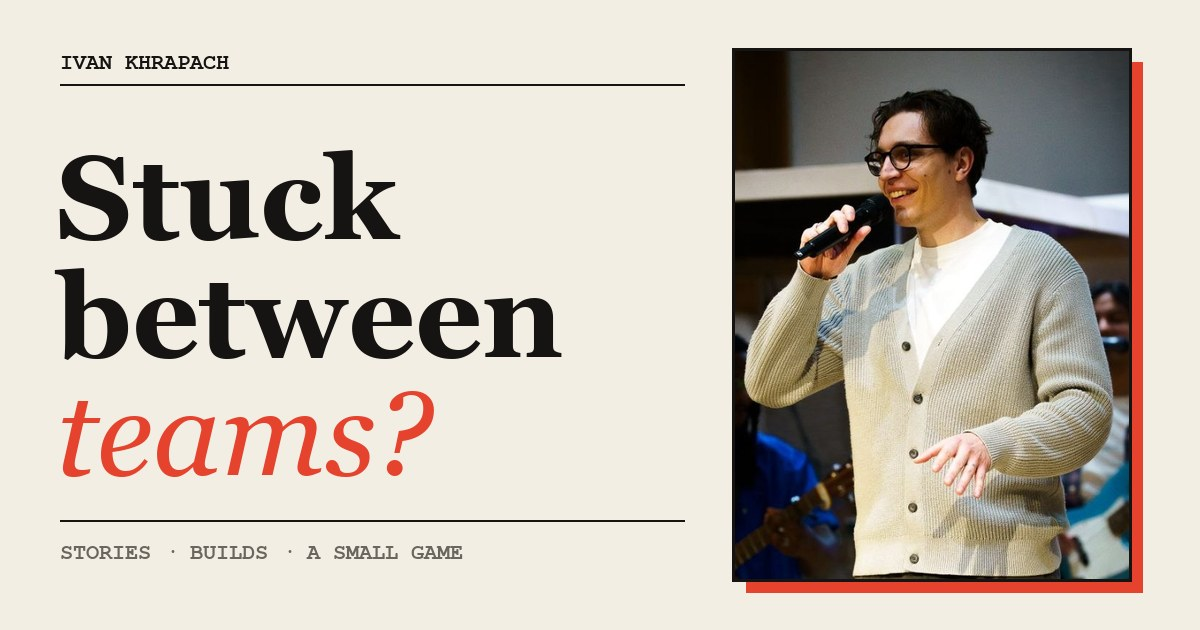
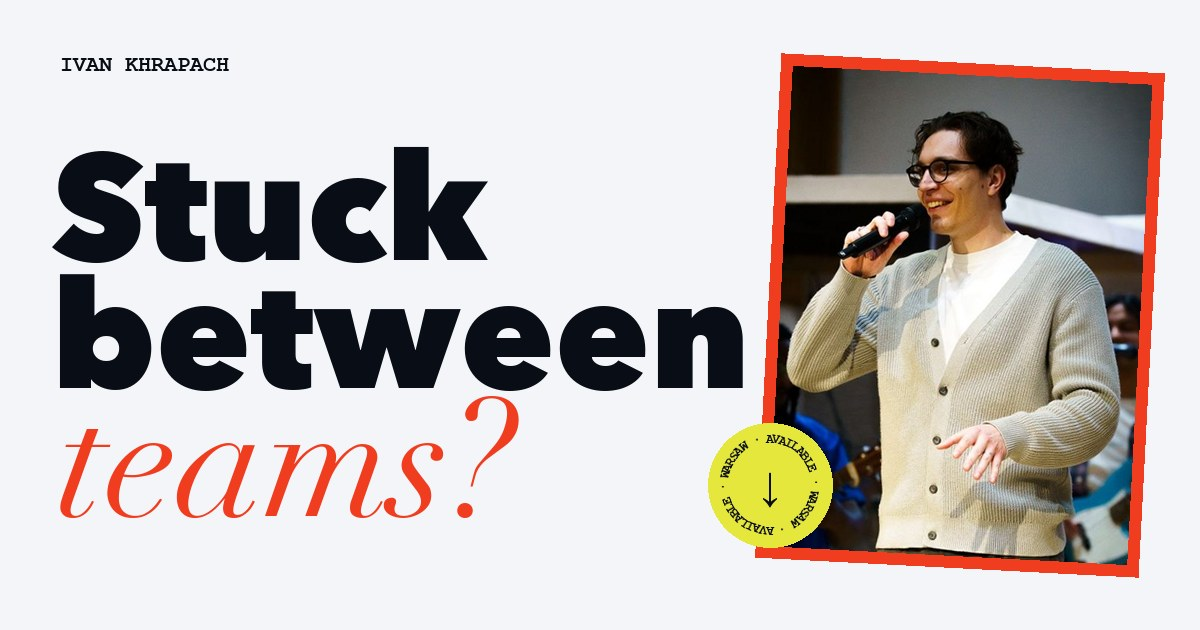
Audit fixes: reorder and sharpen stories, add CBRE, full-size game
- Stories: Google Cloud Marketing (via Deloitte), Cadillac Fairview, game, Yuno, CBRE, Quantum Mosaic
- Jobs Cleaner moved into Builds; clean 01-07 numbering
- Full Deloitte title in the hero credential line
- Header switches black/white per section; bigger tap targets
- Larger phone cover photo; skip link, focus styles, Person schema, og extras
- Game scales to fill its frame; cache-busted iframe
- Menu: Contact; new link preview card

diff --git a/index.html b/index.html
@@ -14,10 +14,16 @@
 <meta property="og:image" content="https://mrivankh.github.io/portfolio/img/share.jpg">
 <meta property="og:image:width" content="1200">
 <meta property="og:image:height" content="630">
+<meta property="og:image:alt" content="Ivan Khrapach on stage with a microphone, next to the headline Stuck between teams?">
+<meta property="og:site_name" content="Ivan Khrapach">
+<meta property="og:locale" content="en_US">
 <meta name="twitter:card" content="summary_large_image">
+<meta name="theme-color" content="#080D16">
+<script type="application/ld+json">{"@context":"https://schema.org","@type":"Person","name":"Ivan Khrapach","url":"https://mrivankh.github.io/portfolio/","image":"https://mrivankh.github.io/portfolio/img/ivan.jpg","address":{"@type":"PostalAddress","addressLocality":"Warsaw","addressCountry":"PL"},"sameAs":["https://www.linkedin.com/in/mr-ivan","https://github.com/MrIvanKh"]}</script>
 <link rel="preconnect" href="https://fonts.googleapis.com">
 <link rel="preconnect" href="https://fonts.gstatic.com" crossorigin>
-<link href="https://fonts.googleapis.com/css2?family=Bricolage+Grotesque:opsz,wght@12..96,400;12..96,800&family=Instrument+Serif:ital@0;1&family=JetBrains+Mono&family=Press+Start+2P&display=swap" rel="stylesheet">
+<link href="https://fonts.googleapis.com/css2?family=Bricolage+Grotesque:opsz,wght@12..96,400;12..96,800&family=Instrument+Serif:ital@1&family=JetBrains+Mono&display=swap" rel="stylesheet">
+<link href="https://fonts.googleapis.com/css2?family=Press+Start+2P&text=ABCDEFGHIJKLMNOPQRSTUVWXYZ0123456789%C2%A2%C2%B7%E2%80%93-&display=swap" rel="stylesheet">
 <style>
 
 :root{
@@ -48,11 +54,19 @@ img{max-width:100%}
 .t-secondary{background:var(--secondary);color:var(--secondary-fg)}
 .t-paper{background:var(--paper);color:var(--ink)}
 .t-ink{background:var(--ink);color:var(--paper)}
+.sr{position:absolute;width:1px;height:1px;overflow:hidden;clip:rect(0 0 0 0);white-space:nowrap}
+.skip{position:absolute;left:12px;top:-60px;z-index:60;background:var(--accent);color:var(--ink);padding:10px 14px;text-decoration:none}
+.skip:focus{top:12px}
+a:focus-visible,button:focus-visible{outline:3px solid currentColor;outline-offset:4px}
+.hint .tc{display:none}
+@media (pointer:coarse){.hint .kb{display:none}.hint .tc{display:inline}}
 /* header */
-.hd{position:fixed;left:0;right:0;top:0;z-index:50;display:flex;justify-content:space-between;align-items:center;padding:16px 40px;color:#fff;mix-blend-mode:difference}
+.hd{position:fixed;left:0;right:0;top:0;z-index:50;display:flex;justify-content:space-between;align-items:center;padding:10px 40px;color:var(--ink);transition:color .2s}
+.hd.lt{color:var(--paper)}
+.hd a,.hd span{padding:8px 2px}
 .hd nav{display:flex;gap:24px}.hd a{text-decoration:none}
 /* hero */
-.hero{min-height:100vh;display:flex;flex-direction:column;justify-content:flex-end;padding-top:112px;padding-bottom:40px}
+.hero{min-height:100vh;min-height:100svh;display:flex;flex-direction:column;justify-content:flex-end;padding-top:112px;padding-bottom:40px}
 .ph{position:absolute;right:6%;top:14%;width:30vw;max-width:28rem;transform:rotate(3deg)}
 .ph .blk{position:absolute;inset:-12px;background:var(--primary);transform:rotate(-6deg)}
 .ph img{position:relative;display:block;width:100%;height:auto;aspect-ratio:3/4;object-fit:cover;object-position:50% 20%}
@@ -89,18 +103,20 @@ img{max-width:100%}
 .gm h2{position:relative;font-weight:800;font-size:clamp(48px,7vw,104px);line-height:.9;letter-spacing:-.045em;margin:64px 0 0}
 .gm h2 .serif-i{color:var(--accent)}
 .gm .lede{max-width:36rem;margin:24px 0 0;font-size:18px}
-.gm .screen{margin-top:40px;max-width:64rem;border:4px solid var(--accent)}
+.gm .screen{margin-top:40px;max-width:none;max-height:none;width:min(100%,calc((100svh - 140px) * 16 / 9));border:4px solid var(--accent)}
 .gm .hint{font-family:var(--mono);font-size:12px;opacity:.7;margin-top:12px}
 /* builds */
 .bd{padding-top:96px;padding-bottom:96px}
 .bd .k{color:var(--muted-fg)}
 .bd h2{font-weight:800;font-size:clamp(56px,9vw,136px);line-height:.9;letter-spacing:-.045em;margin:16px 0 0}
 .bd h2 .serif-i{color:var(--accent)}
-.cards{display:grid;grid-template-columns:repeat(3,1fr);gap:1px;background:var(--border);margin-top:56px}
+.cards{display:grid;grid-template-columns:repeat(2,1fr);gap:1px;background:var(--border);margin-top:56px}
 .card{background:var(--ink);color:var(--paper);padding:32px;transition:background .25s;text-decoration:none;display:block}
-.card:hover{background:var(--primary)}
+.card.link:hover{background:var(--primary)}
+.card .go{display:inline-block;margin-top:18px;color:var(--accent)}
+.card.link:hover .go{color:var(--primary-fg)}
 .card .top{display:flex;justify-content:space-between;color:var(--muted-fg)}
-.card:hover .top,.card:hover p{color:var(--primary-fg)}
+.card.link:hover .top,.card.link:hover p{color:var(--primary-fg)}
 .card h3{margin:64px 0 0;font-weight:800;font-size:30px;line-height:1;letter-spacing:-.02em}
 .card p{margin:16px 0 0;color:var(--muted-fg)}
 /* contact */
@@ -111,13 +127,17 @@ img{max-width:100%}
 .ct .btns a:hover{transform:rotate(2deg)}
 .ct .btns a.ol{background:transparent;color:var(--ink);border:2px solid var(--ink)}
 .ct .foot{display:flex;justify-content:space-between;margin-top:72px;opacity:.7}
-@media (prefers-reduced-motion:reduce){.badge svg,.mq .tr{animation:none}}
+@media (prefers-reduced-motion:reduce){html{scroll-behavior:auto}.badge svg,.mq .tr{animation:none}#start .ic{animation:none}.btn-ink:hover,.ct .btns a:hover{transform:none}}
+.mq:hover .tr{animation-play-state:paused}
 @media (max-width:860px){
   .px{padding-left:20px;padding-right:20px}
   .hd{padding:16px 20px}.hd nav{gap:14px}.hd .hs{display:none}
-  .ph{width:44vw;top:96px;right:6%}
-  .badge{width:104px;height:104px;left:-28px;bottom:-24px}
-  .hero{padding-top:calc(96px + 44vw * 1.33 + 40px)}
+  .ph{width:60vw;top:80px;right:8%}
+  .badge{width:76px;height:76px;left:-16px;bottom:-18px}
+  .badge span{font-size:22px}
+  .hero{padding-top:calc(80px + 60vw * 1.34 + 48px)}
+  .st,.gm{min-height:auto}
+  .cards{grid-template-columns:1fr}
   .hero .row{grid-template-columns:1fr}
   .st .g{grid-template-columns:1fr;gap:28px}
   .st h2,.st .body{grid-column:auto}
@@ -149,13 +169,14 @@ img{max-width:100%}
 .screen iframe{opacity:0;transition:opacity .35s}
 .screen iframe.on{opacity:1}
 @media (prefers-reduced-motion:reduce){#start .cab{transition:none}#start .coin,#start .slot{animation:none}}
-@media (max-width:860px){.screen{aspect-ratio:3/4}#start .cab{height:80%;top:5%}#start .cta{font-size:12px}}
+@media (max-width:860px){.screen{aspect-ratio:1/1}#start .cab{height:76%;top:4%}#start .cta{font-size:12px}}
 </style>
 </head>
 <body>
-<header class="hd mono"><span>Ivan Khrapach</span><nav><a href="#work">Work</a><a href="#play">Play</a><a href="#builds" class="hs">Builds</a><a href="#contact">Write</a></nav></header>
+<a class="skip mono" href="#work">Skip to stories</a>
+<header class="hd mono"><span>Ivan Khrapach</span><nav><a href="#work">Work</a><a href="#play">Play</a><a href="#builds" class="hs">Builds</a><a href="#contact">Contact</a></nav></header>
 <main>
-<section class="hero grain px t-paper">
+<section class="hero grain px t-paper" data-hd="dark">
   <div class="ph">
     <div class="blk"></div>
     <img src="img/ivan.jpg" alt="Ivan Khrapach smiling on stage with a microphone, in glasses and a light cardigan" width="880" height="1176">
@@ -167,22 +188,22 @@ img{max-width:100%}
   <h1 class="mega">Stuck<br>between<br><span class="serif-i">teams?</span></h1>
   <div class="row">
     <p class="big">I find the owner, build what's missing, and keep it moving <mark>until it's done.</mark></p>
-    <p class="cred">Most recently Chief of Staff at Google Cloud Marketing, through Deloitte. Before: Yuno, Cadillac Fairview, CBRE.</p>
+    <p class="cred">Most recently Chief of Staff to the Head of Strategy &amp; Operations, through Deloitte, placed at Google Cloud Marketing. Before: Yuno, Cadillac Fairview, CBRE.</p>
   </div>
 </section>
-<div class="mq t-primary" aria-hidden="true"><div class="tr"><span><span>OKRs</span><span>✺</span><span>PMOs</span><span>✺</span><span>Operating models</span><span>✺</span><span>Things built with AI</span><span>✺</span><span>Seven regions → one plan</span><span>✺</span></span><span><span>OKRs</span><span>✺</span><span>PMOs</span><span>✺</span><span>Operating models</span><span>✺</span><span>Things built with AI</span><span>✺</span><span>Seven regions → one plan</span><span>✺</span></span></div></div>
+<div class="mq t-primary" aria-hidden="true" data-hd="dark"><div class="tr"><span><span>OKRs</span><span>✺</span><span>PMOs</span><span>✺</span><span>Operating models</span><span>✺</span><span>Things built with AI</span><span>✺</span><span>Seven regions → one plan</span><span>✺</span></span><span><span>OKRs</span><span>✺</span><span>PMOs</span><span>✺</span><span>Operating models</span><span>✺</span><span>Things built with AI</span><span>✺</span><span>Seven regions → one plan</span><span>✺</span></span></div></div>
 <div id="work">
-<section class="st grain px t-primary">
-  <div class="meta mono"><span>Story — Yuno · Chief of Staff, CEO Office · 2025–26</span><span>01 / 07</span></div>
+<section class="st grain px t-secondary" data-hd="light" id="s01">
+  <div class="meta mono"><span>Story — Deloitte, placed at Google Cloud Marketing · 2026</span><span>01 / 07</span></div>
   <span class="ghost" aria-hidden="true">01</span>
-  <div class="g"><h2>300 people, one goal system, cycle one.</h2><div class="body"><p>A company growing fast, with no shared way to set or track goals. With the CEO, I built the company OKR system from scratch, then a performance cycle to go with it.</p><p>During a restructuring I worked out who owns what with Product and Engineering, then ran the workshops that turned competing priorities into one 90-day plan.</p></div></div>
-  <div class="sr"><span class="stat">6wks</span><span class="serif-i">for 300+ people to set goals in the first cycle</span></div>
-</section><section class="st grain px t-accent">
-  <div class="meta mono"><span>Build — Side project · Solo builder · 2026</span><span>02 / 07</span></div>
+  <div class="g"><h2>Seven regions, two vendors, one plan.</h2><div class="body"><p>Work overlapped in some places and fell through in others. I co-led the operating-model review: we mapped it, named owners and escalation paths, and I helped write the plan for leadership.</p><p>I also ran financial reporting and analysis for a $36M cost center and found $800K booked in the wrong place. I took automations the regions had built locally and scaled them to the other regions. LATAM's alone was projected to save 1,000+ hours a year.</p></div></div>
+  <div class="sr"><span class="stat">7→1</span><span class="serif-i">regions in, one plan out, owners named</span></div>
+</section><section class="st grain px t-primary" data-hd="dark" id="s02">
+  <div class="meta mono"><span>Story — Cadillac Fairview, Toronto · 2023–25</span><span>02 / 07</span></div>
   <span class="ghost" aria-hidden="true">02</span>
-  <div class="g"><h2>Tired of “remote” jobs that weren’t. So I built a filter.</h2><div class="body"><p>Jobs Cleaner is a Chrome extension that hides what you've seen, filters fake-remote roles and flags reposts.</p><p>I'm not an engineer. I built it by directing AI tools: clear scope, small releases, real use.</p><a class="btn-ink mono" href="https://chromewebstore.google.com/detail/jobs-cleaner-for-linkedin/mppjlcdbaiefhhocijblbikbkpenpkjk" target="_blank" rel="noopener">Get it on Chrome →</a></div></div>
-  <div class="sr"><span class="stat">0</span><span class="serif-i">times I want to read the same job post again</span></div>
-</section><section id="play" class="gm grain px t-ink">
+  <div class="g"><h2>100+ initiatives a year, and nowhere to see them.</h2><div class="body"><p>Finance and Technology ran 100+ initiatives a year, and nobody could see them in one place. I built the PMO: one intake, one way to prioritize, one weekly delivery rhythm.</p><p>I set up the Asana portfolio system the senior leadership committee used to track the biggest programs, plus VP-level steering committees. Before that, I led a finance-system implementation from requirements to go-live.</p></div></div>
+  <div class="sr"><span class="stat">18→10</span><span class="serif-i">months: an 18-month roadmap, delivered in about 10</span></div>
+</section><section id="play" class="gm grain px t-ink" data-hd="light">
   <div class="meta mono" style="display:flex;justify-content:space-between;opacity:.85"><span>Game — about 3 minutes</span><span>03 / 07</span></div>
   <h2>Rather <span class="serif-i">play it?</span></h2>
   <p class="lede">Program Quest: five worlds, true stories, a coffee and a dumbbell hidden in each.</p>
@@ -241,30 +262,30 @@ img{max-width:100%}
         <span class="cta mono" id="cta"><span class="ctab">● Insert coin</span> to play · about 3 min</span>
       </button>
   </div>
-  <p class="hint">← → to move · Space to jump · Enter to read · on phones, use the buttons</p>
-</section><section class="st grain px t-secondary">
-  <div class="meta mono"><span>Story — Google Cloud Marketing, through Deloitte · 2026</span><span>04 / 07</span></div>
+  <p class="hint"><span class="kb">← → to move · Space to jump · Enter to read</span><span class="tc">Tap the on-screen buttons to move, jump and read</span></p>
+</section><section class="st grain px t-primary" data-hd="dark" id="s04">
+  <div class="meta mono"><span>Story — Yuno · Chief of Staff, CEO Office · 2025–26</span><span>04 / 07</span></div>
   <span class="ghost" aria-hidden="true">04</span>
-  <div class="g"><h2>Seven regions, two vendors, one plan.</h2><div class="body"><p>I co-led the operating-model review: mapped overlaps and gaps, set owners and escalation paths, and helped write the plan for leadership.</p><p>I ran reporting for a $36M cost center, found $800K booked in the wrong place, and scaled regional automations. LATAM's alone was projected to save 1,000+ hours a year.</p></div></div>
-  <div class="sr"><span class="stat">7→1</span><span class="serif-i">seven regions, one plan, clear owners</span></div>
-</section><section class="st grain px t-paper">
-  <div class="meta mono"><span>Story — Quantum Mosaic · with the CEO &amp; CTO · 2025</span><span>05 / 07</span></div>
+  <div class="g"><h2>300+ people, no shared way to set goals.</h2><div class="body"><p>Yuno was growing fast and nobody tracked goals the same way. With the CEO, I built the company OKR system from scratch, then the performance cycle that runs on it.</p><p>During a restructuring, I sat down with Product and Engineering to settle who owns what. Then I ran the workshops that got competing priorities into one 90-day plan.</p></div></div>
+  <div class="sr"><span class="stat">6wks</span><span class="serif-i">to build the system and get all 300+ people setting goals in cycle one</span></div>
+</section><section class="st grain px t-accent" data-hd="dark" id="s05">
+  <div class="meta mono"><span>Story — CBRE, Warsaw · Project Manager, Finance &amp; Data Transformation · 2022</span><span>05 / 07</span></div>
   <span class="ghost" aria-hidden="true">05</span>
-  <div class="g"><h2>Investors don't write user stories. Somebody has to.</h2><div class="body"><p>I sat with VC, PE and family-office teams, mapped how they actually work, and turned it into a prioritized backlog.</p><p>Then I ran sprints with engineering and UX, and helped with the demos and negotiations that followed.</p></div></div>
-  <div class="sr"><span class="stat">3</span><span class="serif-i">enterprise pilots supported</span></div>
-</section><section class="st grain px t-primary">
-  <div class="meta mono"><span>Story — Cadillac Fairview, Toronto · 2023–25</span><span>06 / 07</span></div>
+  <div class="g"><h2>$100M+ that didn’t add up.</h2><div class="body"><p>The ledger and subledger disagreed by more than $100M. I led the root-cause work until we knew why.</p><p>In the same job, I coordinated 15+ teams on a two-year data-migration roadmap. It’s where I learned to read the spreadsheet before the slide.</p></div></div>
+  <div class="sr"><span class="stat">~70%</span><span class="serif-i">of a two-year roadmap, done in 10 months</span></div>
+</section><section class="st grain px t-paper" data-hd="dark" id="s06">
+  <div class="meta mono"><span>Story — Quantum Mosaic · with the CEO &amp; CTO · 2025</span><span>06 / 07</span></div>
   <span class="ghost" aria-hidden="true">06</span>
-  <div class="g"><h2>100 initiatives a year, and nowhere to see them.</h2><div class="body"><p>Finance and Technology ran 100+ initiatives a year with no single view. I built the PMO: intake, prioritization, a weekly delivery rhythm.</p><p>Plus the Asana portfolio system for the senior leadership committee, and VP-level steering committees.</p></div></div>
-  <div class="sr"><span class="stat">18→10</span><span class="serif-i">an 18-month roadmap, delivered in about 10</span></div>
+  <div class="g"><h2>Investors don't write user stories. Somebody has to.</h2><div class="body"><p>With the CEO and CTO, I sat with VC, PE and family-office teams, watched how they actually work, and turned it into a prioritized backlog.</p><p>Then I ran sprints with engineering and UX, and worked on the demos and negotiations that followed.</p></div></div>
+  <div class="sr"><span class="stat">3</span><span class="serif-i">enterprise pilots I worked on, backlog to demo</span></div>
 </section>
 </div>
-<section id="builds" class="bd px">
+<section id="builds" class="bd px" data-hd="light">
   <p class="k mono">07 — made by directing AI tools</p>
   <h2>More from the <span class="serif-i">workshop.</span></h2>
-  <div class="cards"><article class="card"><div class="top mono"><span>01</span><span>Web app</span></div><h3>RecoverFlow</h3><p>Payment recovery for Stripe businesses. Built solo with Claude Code and Lovable. No users yet, and I'm saying so.</p></article><article class="card"><div class="top mono"><span>02</span><span>Daily use</span></div><h3>The gym coach that thinks for me</h3><p>A coach inside Claude, Notion as memory, Wispr Flow for voice. I say what I lifted; it adjusts the plan.</p></article><a class="card" href="#play"><div class="top mono"><span>03</span><span>Game</span></div><h3>Program Quest</h3><p>A retro platformer: five worlds, true stories, a coffee and a dumbbell hidden in each.</p></a></div>
+  <div class="cards"><a class="card link" href="https://chromewebstore.google.com/detail/jobs-cleaner-for-linkedin/mppjlcdbaiefhhocijblbikbkpenpkjk" target="_blank" rel="noopener"><div class="top mono"><span>01</span><span>Live · free</span></div><h3>Jobs Cleaner for LinkedIn</h3><p>A Chrome extension that hides jobs you've already seen, filters out fake-remote roles and flags reposts. I'm not an engineer. I told AI tools exactly what to build and shipped it one small release at a time.</p><span class="go mono">Get it on Chrome <span aria-hidden="true">→</span><span class="sr">(opens in a new tab)</span></span></a><article class="card"><div class="top mono"><span>02</span><span>Web app</span></div><h3>RecoverFlow</h3><p>Payment recovery for Stripe businesses. Built solo with Claude Code and Lovable. No users yet, and I'm saying so.</p></article><article class="card"><div class="top mono"><span>03</span><span>Daily use</span></div><h3>The gym coach that thinks for me</h3><p>A coach inside Claude, Notion as memory, Wispr Flow for voice. I say what I lifted; it adjusts the plan.</p></article><a class="card link" href="#play"><div class="top mono"><span>04</span><span>Game</span></div><h3>Program Quest</h3><p>My career as a retro platformer. Yes, really.</p><span class="go mono">Play it <span aria-hidden="true">→</span></span></a></div>
 </section>
-<section id="contact" class="ct grain px t-accent">
+<section id="contact" class="ct grain px t-accent" data-hd="dark">
   <p class="mono">Available · Warsaw, Poland · Authorized to work in Poland</p>
   <h2 class="mega">Write<br><span class="serif-i">to me.</span></h2>
   <div class="btns"><a class="mono" href="mailto:ivan.khrapach1@gmail.com">Say hello →</a><a class="mono ol" href="https://www.linkedin.com/in/mr-ivan" target="_blank" rel="noopener">LinkedIn</a><a class="mono ol" href="https://github.com/MrIvanKh" target="_blank" rel="noopener">GitHub</a></div>
@@ -289,7 +310,7 @@ img{max-width:100%}
   }
   function launch() {
     var f = document.createElement('iframe');
-    f.src = 'program-quest.html'; f.title = 'Program Quest';
+    f.src = 'program-quest.html?v=2'; f.title = 'Program Quest';
     screen.appendChild(f);
     f.addEventListener('load', function () {
       f.classList.add('on');
@@ -324,6 +345,15 @@ img{max-width:100%}
       }
     })(t0);
   });
+})();
+(function () {
+  var hd = document.querySelector('.hd'), secs = document.querySelectorAll('[data-hd]');
+  function chk() {
+    var y = hd.offsetHeight / 2, lt = false;
+    secs.forEach(function (s) { var r = s.getBoundingClientRect(); if (r.top <= y && r.bottom > y) lt = s.dataset.hd === 'light'; });
+    hd.classList.toggle('lt', lt);
+  }
+  addEventListener('scroll', chk, { passive: true }); addEventListener('resize', chk); chk();
 })();
 </script>
 </body>

diff --git a/program-quest.html b/program-quest.html
@@ -69,7 +69,7 @@ canvas{display:block;image-rendering:pixelated;image-rendering:crisp-edges;touch
 var VW=320,VH=180,T=16,R=11,OY=VH-R*T;
 var cv=document.getElementById('c'),ctx=cv.getContext('2d');ctx.imageSmoothingEnabled=false;
 var stage=document.getElementById('stage'),pad=document.getElementById('pad');
-function fit(){var ph=getComputedStyle(pad).display==='none'?0:pad.offsetHeight+10;var s=Math.min(innerWidth/VW,(innerHeight-ph)/VH);if(s>=2)s=Math.floor(s);s=Math.max(.5,s);cv.style.width=VW*s+'px';cv.style.height=VH*s+'px';stage.style.setProperty('--fs',Math.max(7,Math.round(s*3.4))+'px');}
+function fit(){var ph=getComputedStyle(pad).display==='none'?0:pad.offsetHeight+10;var s=Math.min(innerWidth/VW,(innerHeight-ph)/VH);s=Math.max(.5,s);cv.style.width=VW*s+'px';cv.style.height=VH*s+'px';stage.style.setProperty('--fs',Math.max(7,Math.round(s*3.4))+'px');}
 addEventListener('resize',fit);fit();
 function $(id){return document.getElementById(id);}
 function clamp(v,a,b){return v<a?a:v>b?b:v;}
